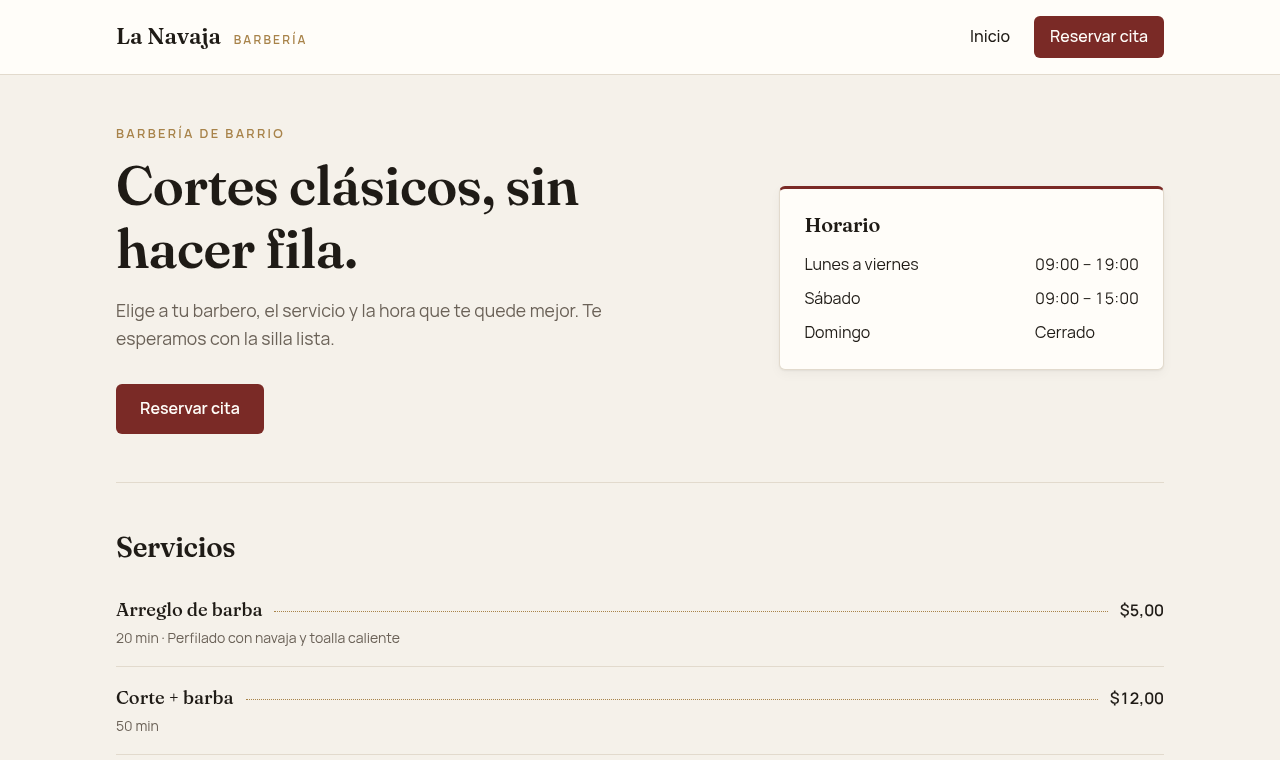
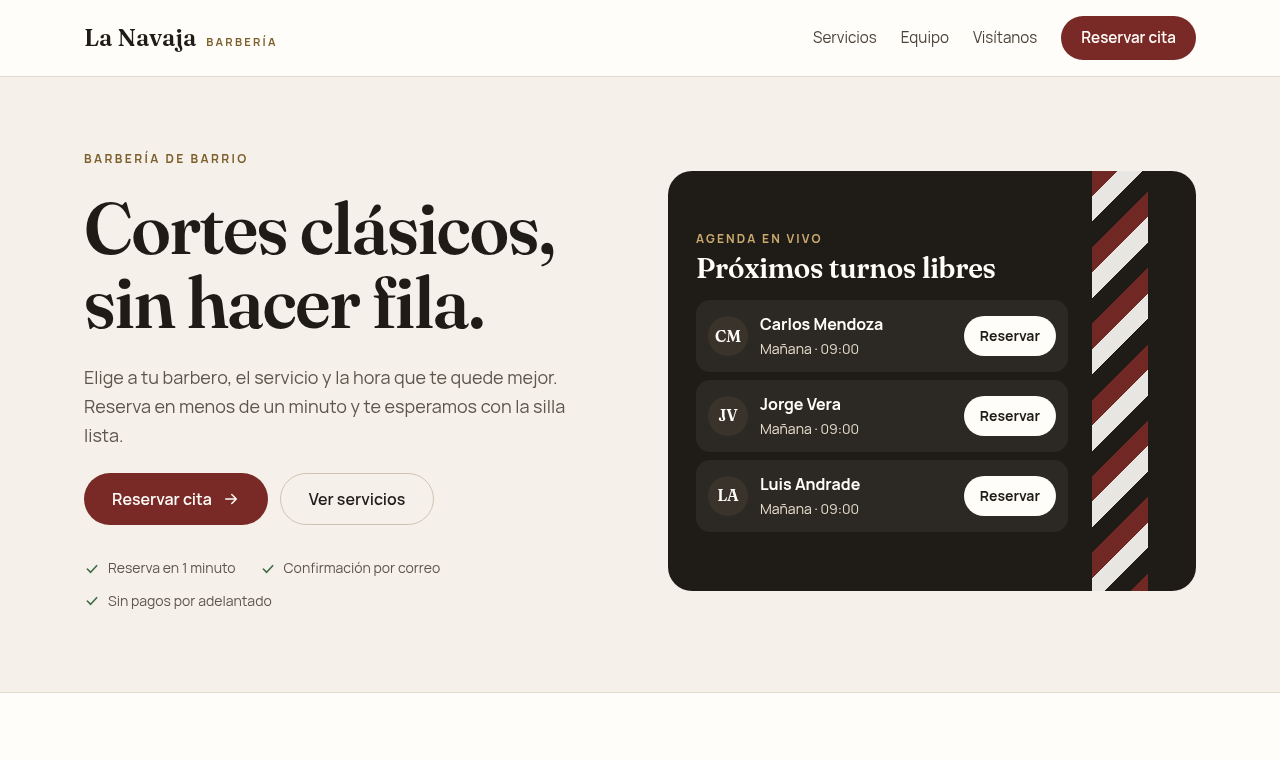
docs: update home screenshot and document business settings

diff --git a/README.md b/README.md
@@ -22,7 +22,7 @@ agenda, the team and the schedule from an admin panel.
 
 **For customers**
 
-- Home page with services, prices, team and opening hours
+- Home page with services, team, opening hours and each barber's next free slot
 - 4-step booking: service → barber → day & time → contact details
 - Real-time availability from each barber's weekly schedule and existing bookings
 - Email when the booking is received, confirmed or cancelled
@@ -158,6 +158,7 @@ All settings come from environment variables; secrets are never committed.
 | `TIMEZONE`                             | `backend/.env`  | Business timezone (default `America/Guayaquil`)    |
 | `BUSINESS_NAME`                        | `backend/.env`  | Name used in emails                                |
 | `SMTP_HOST`, `SMTP_PORT`, `SMTP_USER`, `SMTP_PASSWORD`, `SMTP_STARTTLS`, `EMAIL_FROM` | `backend/.env` | Email delivery. Without `SMTP_HOST` emails are only logged |
+| `VITE_BUSINESS_CITY`, `_ADDRESS`, `_WHATSAPP`, `_MAPS_URL`, `_MAPS_EMBED_URL` | `frontend/.env` | Public details on the home page; empty ones are hidden |
 
 Generate a secret key with:
 
@@ -190,6 +191,7 @@ Interactive docs at `/docs` when the backend runs locally. Admin endpoints need
 | PATCH  | `/api/services/{id}`              | Admin  | Update service               |
 | DELETE | `/api/services/{id}`              | Admin  | Deactivate service           |
 | GET    | `/api/availability`               | Public | Free slots for barber/day    |
+| GET    | `/api/availability/next`          | Public | Next free slot for a barber  |
 | POST   | `/api/appointments`               | Public | Book an appointment          |
 | GET    | `/api/appointments`               | Admin  | List with filters            |
 | GET    | `/api/appointments/{id}`          | Admin  | Get appointment              |
